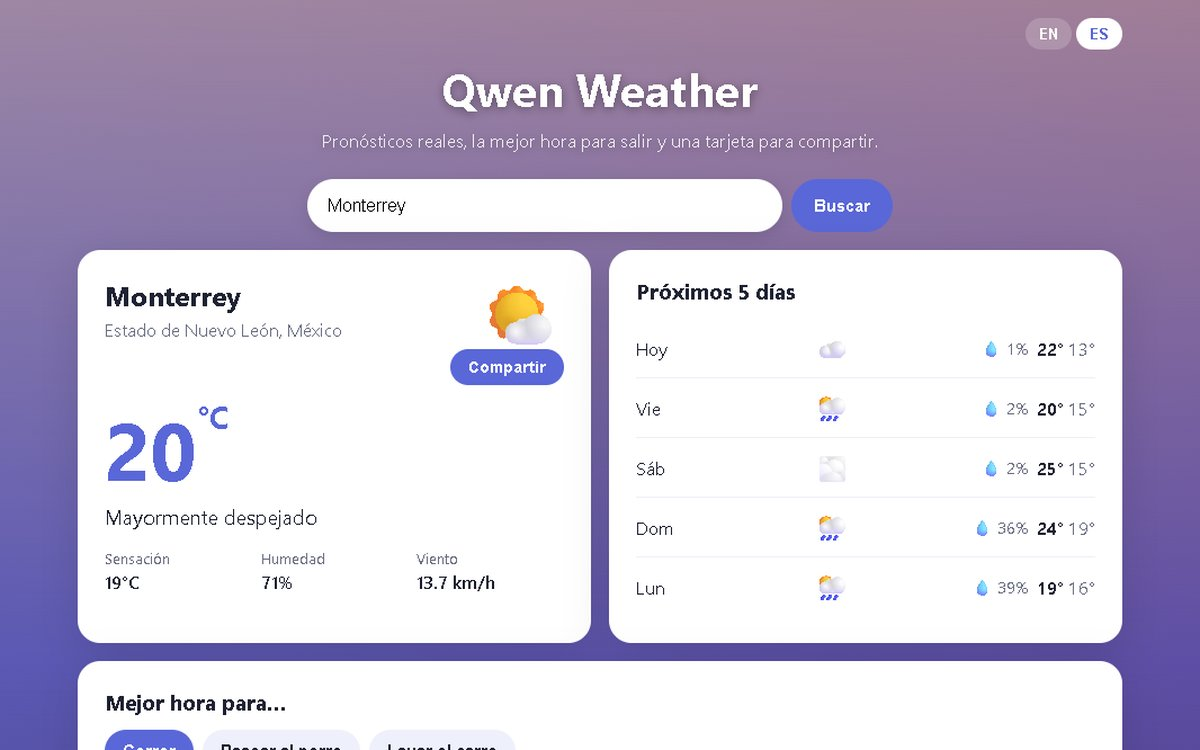
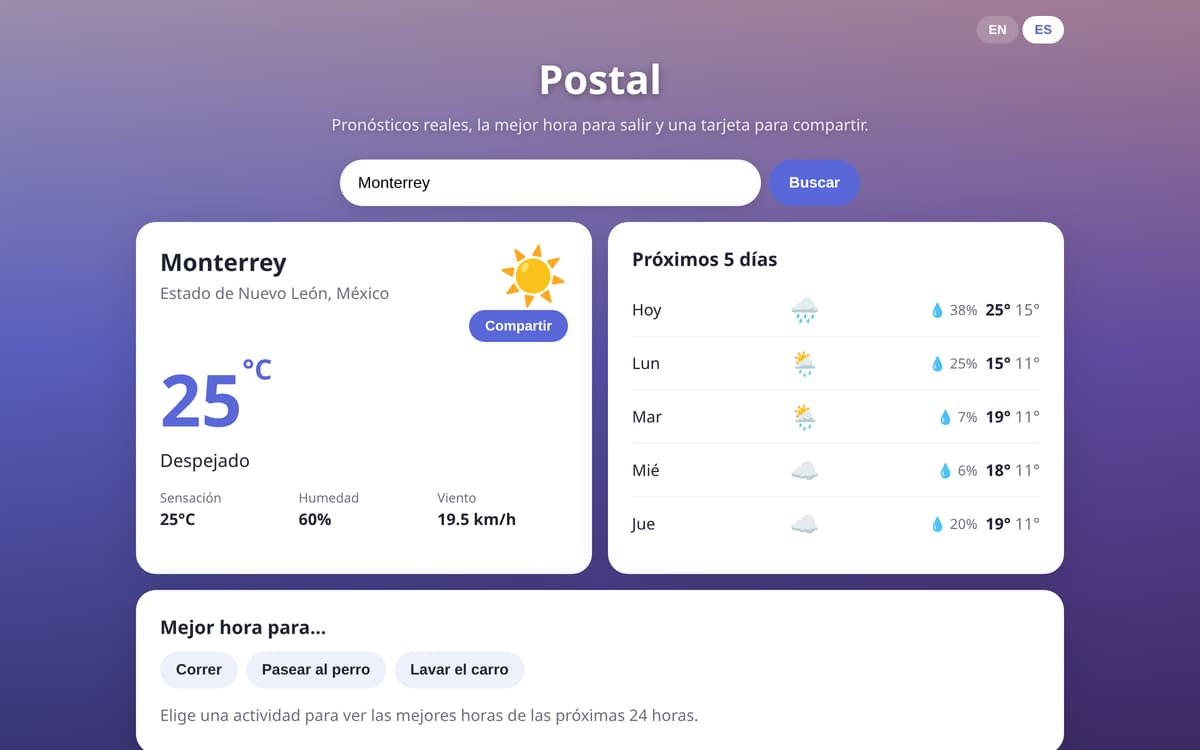
Document the Cloudflare Pages site in English and refresh the Postal demo image.

diff --git a/README.md b/README.md
@@ -1,34 +1,85 @@
-# Portafolio · Damian Longoria
+# Damian Lonare
 
-Sitio personal en Next.js + TypeScript, exportado como estático (sin servidor).
+Personal site of **Pedro Damian Longoria** (Damian Lonare), a senior software engineer in Monterrey, Mexico, with 9 years of experience. Most recently he built the A/B testing system The Home Depot used on homedepot.com. The public brand on the site is Damian Lonare. The page for recruiters uses Pedro Damian Longoria.
 
-## Correr local
+The site is bilingual. Spanish is the default. English lives under `/en`, including a profile written for recruiters and hiring managers.
+
+**Live:** [damianlonare.com](https://damianlonare.com)
+
+## Features
+
+- Home, software services, live demos, and a recruiter profile, each with its own Spanish and English metadata
+- Link-in-bio at [`/links`](https://damianlonare.com/links/) with a featured Lonare lyric video
+- Light and dark themes, following the system preference until the visitor chooses
+- Résumé PDFs in Spanish and English
+- Contact through WhatsApp, LinkedIn, and GitHub
+
+## Tech stack
+
+- [Next.js 15](https://nextjs.org/) App Router, exported as a static site (`output: "export"`)
+- React 19 and TypeScript
+- One stylesheet, `app/globals.css`
+- Hosted on [Cloudflare Pages](https://pages.cloudflare.com/)
+
+## Architecture
+
+All copy lives in `content/`. The pages only arrange it.
+
+```
+app/(es)/            Spanish routes: /, /software, /demos, /contratar, /links
+app/(en)/en/         English routes: /en, /en/software, /en/demos, /en/hire
+components/          Header, footer, theme toggle, and shared page sections
+content/content.ts   Bilingual copy, routes, and outbound links
+content/link-page.ts Buttons on /links
+public/              Photo, demo images, and CV PDFs
+scripts/             YouTube refresh used by the build and by GitHub Actions
+```
+
+An empty string in `content/content.ts` hides that button. `links.email` is still empty, so the email button stays off the page.
+
+## Run locally
+
+Node.js 22.
 
 ```bash
 npm install
 npm run dev      # http://localhost:3000
-npm run build    # genera /out listo para subir
+npm run build    # writes the static site to /out
+npm start        # serves /out
 ```
 
-## Editar contenido
+## Build and deploy
 
-Todo el texto está en `content/content.ts`, en español (`/`) y en inglés (`/en/`).
-Cada idioma es una ruta con su propio metadata, así que el link en inglés se puede compartir directo.
+Cloudflare Pages builds this repository and publishes the `out` directory produced by the static export.
 
-En `links`, lo que esté en `""` no se muestra. Falta llenar:
+| Setting | Value |
+| --- | --- |
+| Build command | `npm run build` |
+| Output directory | `out` |
+| Node.js | 22 |
 
-- `cv.es` y `cv.en`: link al PDF del CV en cada idioma
-- `email`: correo profesional
-- `music`: canal o perfil de Lonare
+Each production build refreshes the featured video on `/links` from YouTube before the pages are generated. If YouTube does not respond, the last good snapshot in `content/music-video.json` stays in place. [`.github/workflows/refresh-music-video.yml`](.github/workflows/refresh-music-video.yml) commits a new snapshot every six hours when the pick changes, which is what gets that section rebuilt.
 
-## Publicar en Vercel (gratis)
+## Screenshots
 
-1. Sube este repo a GitHub (público, sirve como muestra de código).
-2. En vercel.com → Add New Project → importa el repo → Deploy.
-3. Opcional: conecta un dominio propio (ej. `damianlongoria.dev`).
+English pages, dark theme.
 
-## Pendientes recomendados
+**Home, desktop**
 
-- Agregar el caso de un sitio para negocio cuando termines AC Diseño y Construcción.
-- Publicar un repo demo del generador de video y enlazarlo en ese caso.
-- Agregar capturas o un clip corto en cada caso.
+<img src="docs/screenshots/home-desktop.jpg" alt="English home on a desktop: headline, photo, and three ways to work together" width="820">
+
+**Home, phone**
+
+<img src="docs/screenshots/home-mobile.jpg" alt="English home on a phone" width="280">
+
+**For recruiters** ([/en/hire](https://damianlonare.com/en/hire/))
+
+<img src="docs/screenshots/recruiter-desktop.jpg" alt="Recruiter page: Pedro Damian Longoria, nine years, skills and experience" width="820">
+
+**Live demos** ([/en/demos](https://damianlonare.com/en/demos/))
+
+<img src="docs/screenshots/demos-desktop.jpg" alt="Live demos: audio plugin store, BeatVault, and Postal" width="820">
+
+## En español
+
+Sitio personal de Pedro Damian Longoria (Damian Lonare), ingeniero de software senior en Monterrey, con 9 años de experiencia. Next.js y TypeScript, exportado como sitio estático y publicado en Cloudflare Pages: [damianlonare.com](https://damianlonare.com). El español está en `/` y el inglés en `/en`. Para correrlo en local: `npm install` y `npm run dev`. `npm run build` deja el sitio listo en `out/`.
